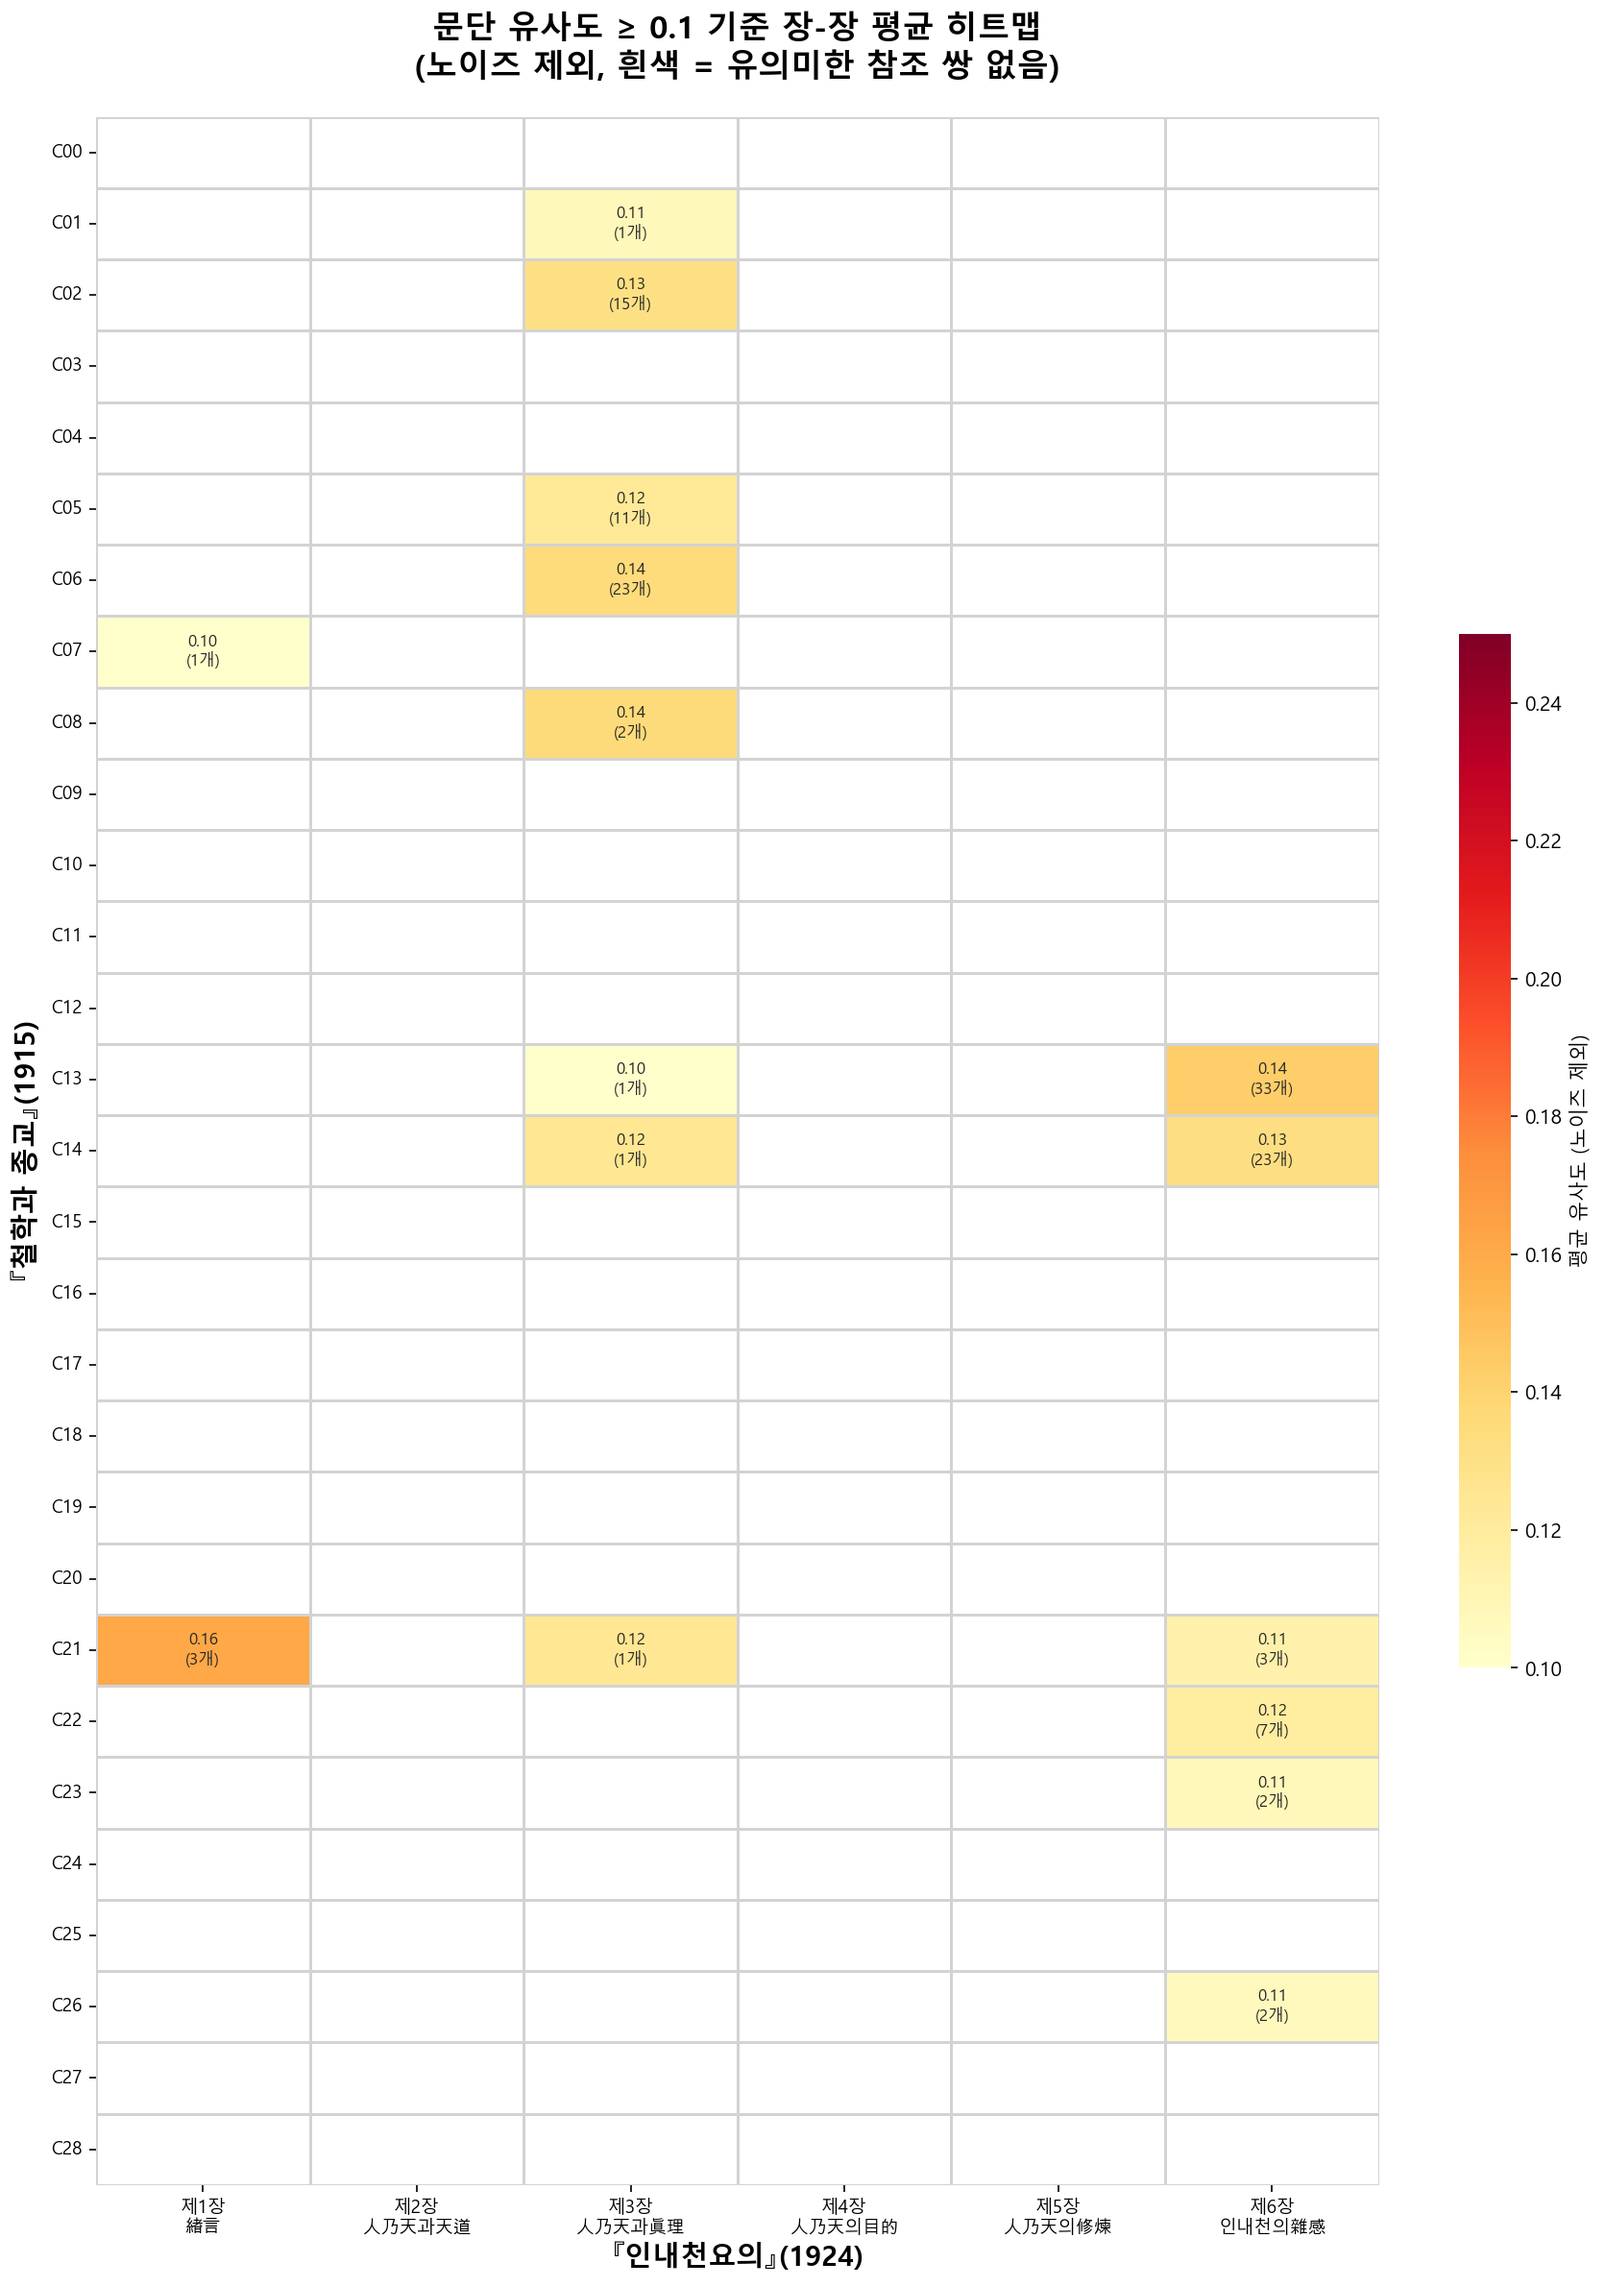
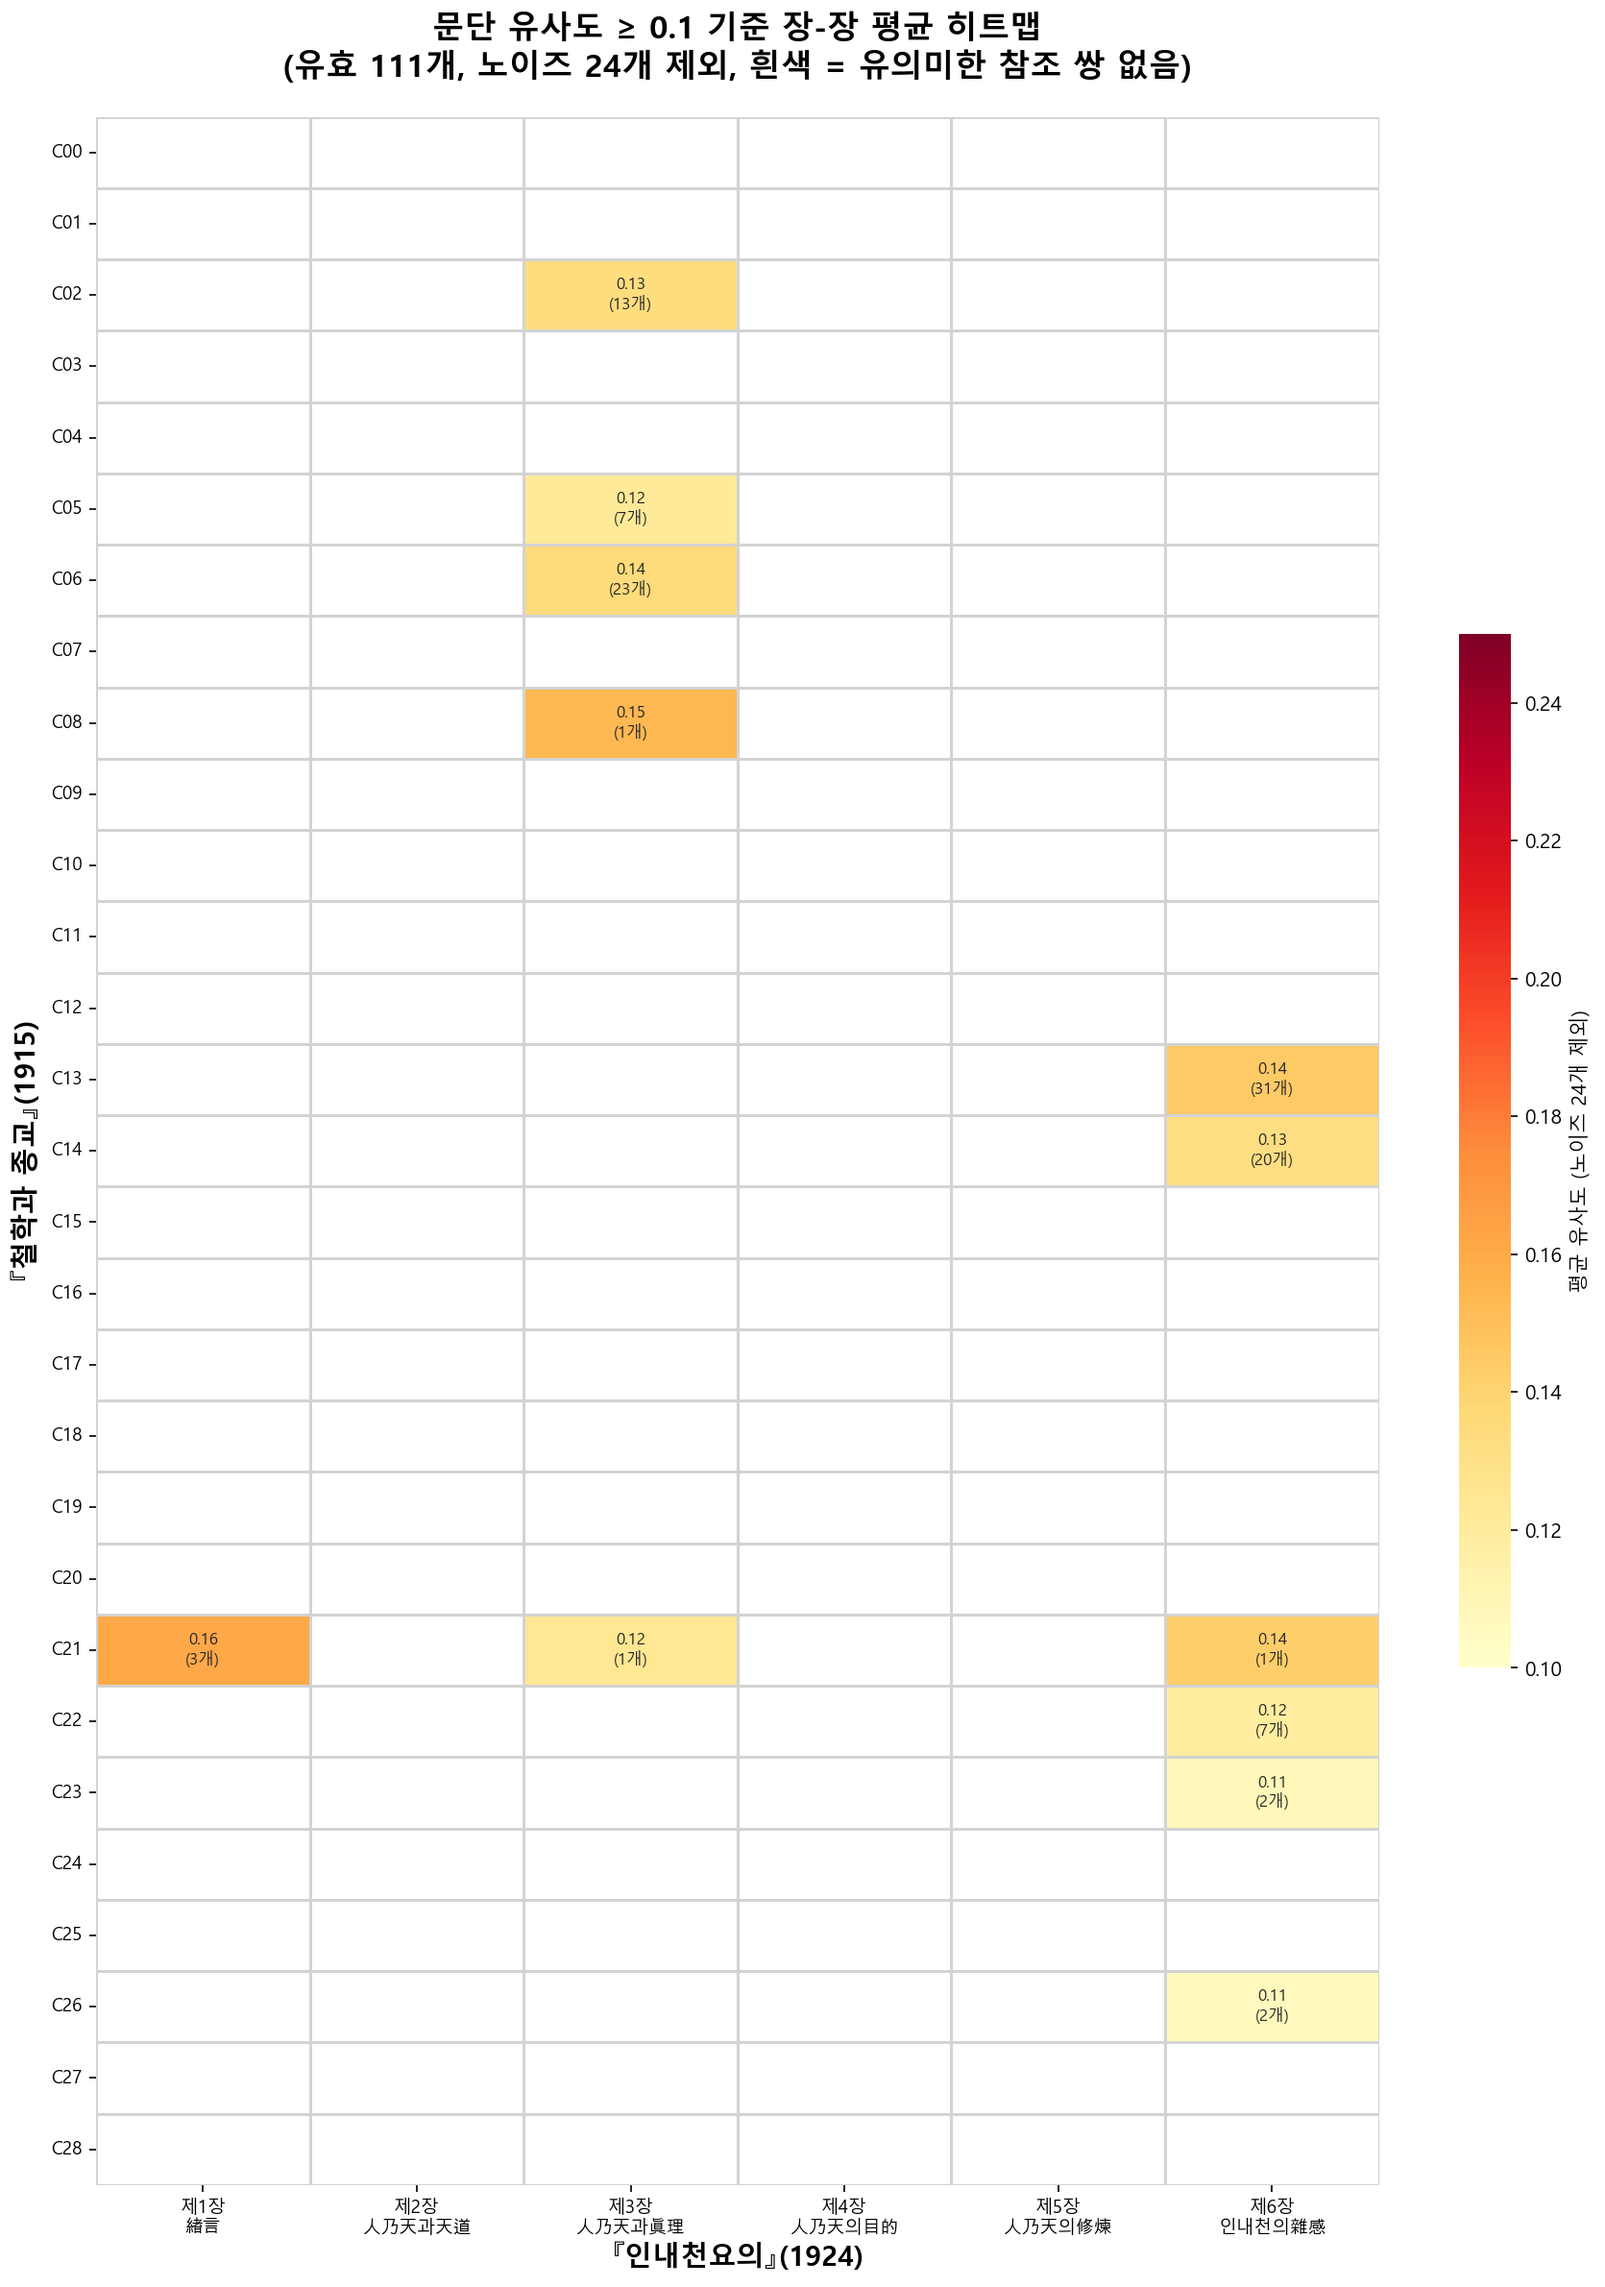
Update heatmap with validated 111 pairs in original format
Regenerated chapter_heatmap_avg_above_threshold.png using validated pairs:
- Shows average similarity + count per cell (e.g., "0.14\n(31개)")
- Uses same visual format as before (YlOrRd, seaborn)
- Title updated to reflect 111 valid pairs

diff --git a/scripts/create_validated_heatmap_v2.py b/scripts/create_validated_heatmap_v2.py
@@ -1,0 +1,128 @@
+# -*- coding: utf-8 -*-
+"""
+검증된 111개 유효 쌍 기준 히트맵 (기존 형태 유지)
+"""
+import pandas as pd
+import numpy as np
+import matplotlib.pyplot as plt
+import seaborn as sns
+import re
+import sys
+sys.stdout.reconfigure(encoding='utf-8')
+
+# 한글 폰트 설정
+plt.rcParams['font.family'] = 'Malgun Gothic'
+plt.rcParams['axes.unicode_minus'] = False
+
+print("=" * 60)
+print("【검증된 111개 유효 쌍 기준 히트맵 생성】")
+print("=" * 60)
+
+# 유효 쌍 로드
+df = pd.read_csv('data/analysis/validated_pairs_final.csv')
+print(f'유효 참조쌍: {len(df)}개')
+
+# 장 추출
+df['chapter_1915'] = df['pid_1915'].apply(lambda x: re.match(r'(C\d+)', str(x)).group(1) if re.match(r'(C\d+)', str(x)) else None)
+df['chapter_1924'] = df['pid_1924'].apply(lambda x: re.match(r'(C\d+)', str(x)).group(1) if re.match(r'(C\d+)', str(x)) else None)
+
+# 장 목록
+chapters_1915 = [f'C{i:02d}' for i in range(29)]  # C00-C28
+chapters_1924 = [f'C0{i}' for i in range(1, 7)]   # C01-C06
+
+# 장-장별 평균 및 개수
+chapter_avg = df.groupby(['chapter_1915', 'chapter_1924'])['similarity'].mean().reset_index()
+chapter_avg.columns = ['chapter_1915', 'chapter_1924', 'avg_similarity']
+
+chapter_count = df.groupby(['chapter_1915', 'chapter_1924']).size().reset_index(name='count')
+
+chapter_stats = chapter_avg.merge(chapter_count, on=['chapter_1915', 'chapter_1924'])
+
+print("\n【장-장별 평균 유사도 상위 10개】")
+print("-" * 50)
+for _, row in chapter_stats.sort_values('count', ascending=False).head(10).iterrows():
+    print(f"  {row['chapter_1915']} × {row['chapter_1924']}: 평균 {row['avg_similarity']:.4f} ({int(row['count'])}개)")
+
+# 피벗 테이블 생성
+pivot_avg = chapter_stats.pivot(index='chapter_1915', columns='chapter_1924', values='avg_similarity')
+pivot_avg = pivot_avg.reindex(index=chapters_1915, columns=chapters_1924, fill_value=np.nan)
+
+pivot_count = chapter_stats.pivot(index='chapter_1915', columns='chapter_1924', values='count')
+pivot_count = pivot_count.reindex(index=chapters_1915, columns=chapters_1924, fill_value=0)
+
+# CSV 저장
+pivot_avg.to_csv('data/analysis/chapter_chapter_matrix_avg_above_threshold.csv')
+print(f"\n평균 매트릭스 저장: data/analysis/chapter_chapter_matrix_avg_above_threshold.csv")
+
+# 히트맵 생성
+fig, ax = plt.subplots(figsize=(12, 16))
+
+# 1924 장 라벨 (정확한 제목)
+chapter_labels_1924 = {
+    'C01': '제1장\n緖言',
+    'C02': '제2장\n人乃天과天道',
+    'C03': '제3장\n人乃天과眞理',
+    'C04': '제4장\n人乃天의目的',
+    'C05': '제5장\n人乃天의修煉',
+    'C06': '제6장\n인내천의雜感'
+}
+
+col_labels = [chapter_labels_1924.get(c, c) for c in chapters_1924]
+
+# 히트맵용 마스크 (NaN인 곳)
+mask = pivot_avg.isna()
+
+# 어노테이션용: 평균값과 개수 함께 표시
+annot_data = []
+for i, idx in enumerate(chapters_1915):
+    row_annot = []
+    for j, col in enumerate(chapters_1924):
+        avg_val = pivot_avg.loc[idx, col]
+        cnt_val = pivot_count.loc[idx, col]
+        if pd.isna(avg_val) or cnt_val == 0:
+            row_annot.append('')  # 빈 셀
+        else:
+            row_annot.append(f'{avg_val:.2f}\n({int(cnt_val)}개)')
+    annot_data.append(row_annot)
+
+annot_df = pd.DataFrame(annot_data, index=chapters_1915, columns=chapters_1924)
+
+# 히트맵
+sns.heatmap(
+    pivot_avg,
+    annot=annot_df,
+    fmt='',
+    cmap='YlOrRd',
+    xticklabels=col_labels,
+    yticklabels=chapters_1915,
+    cbar_kws={'label': '평균 유사도 (노이즈 24개 제외)', 'shrink': 0.5},
+    ax=ax,
+    vmin=0.1,
+    vmax=0.25,
+    linewidths=0.5,
+    linecolor='lightgray',
+    mask=mask,
+    annot_kws={'fontsize': 8}
+)
+
+# 빈 셀(흰색) 표시를 위해 배경색 설정
+ax.set_facecolor('white')
+
+ax.set_xlabel('『인내천요의』(1924)', fontsize=14, fontweight='bold')
+ax.set_ylabel('『철학과 종교』(1915)', fontsize=14, fontweight='bold')
+ax.set_title(f'문단 유사도 ≥ 0.1 기준 장-장 평균 히트맵\n(유효 {len(df)}개, 노이즈 24개 제외, 흰색 = 유의미한 참조 쌍 없음)', fontsize=16, fontweight='bold', pad=20)
+
+# y축 레이블 가로쓰기
+ax.set_yticklabels(ax.get_yticklabels(), rotation=0, fontsize=9)
+ax.set_xticklabels(ax.get_xticklabels(), rotation=0, fontsize=9, ha='center')
+
+plt.tight_layout()
+plt.savefig('images/chapter_heatmap_avg_above_threshold.png', dpi=150, bbox_inches='tight', facecolor='white')
+print(f"히트맵 저장: images/chapter_heatmap_avg_above_threshold.png")
+
+plt.close()
+
+print("\n" + "=" * 60)
+print("완료!")
+print(f"\n총 유효 쌍: {len(df)}개")
+print("=" * 60)
